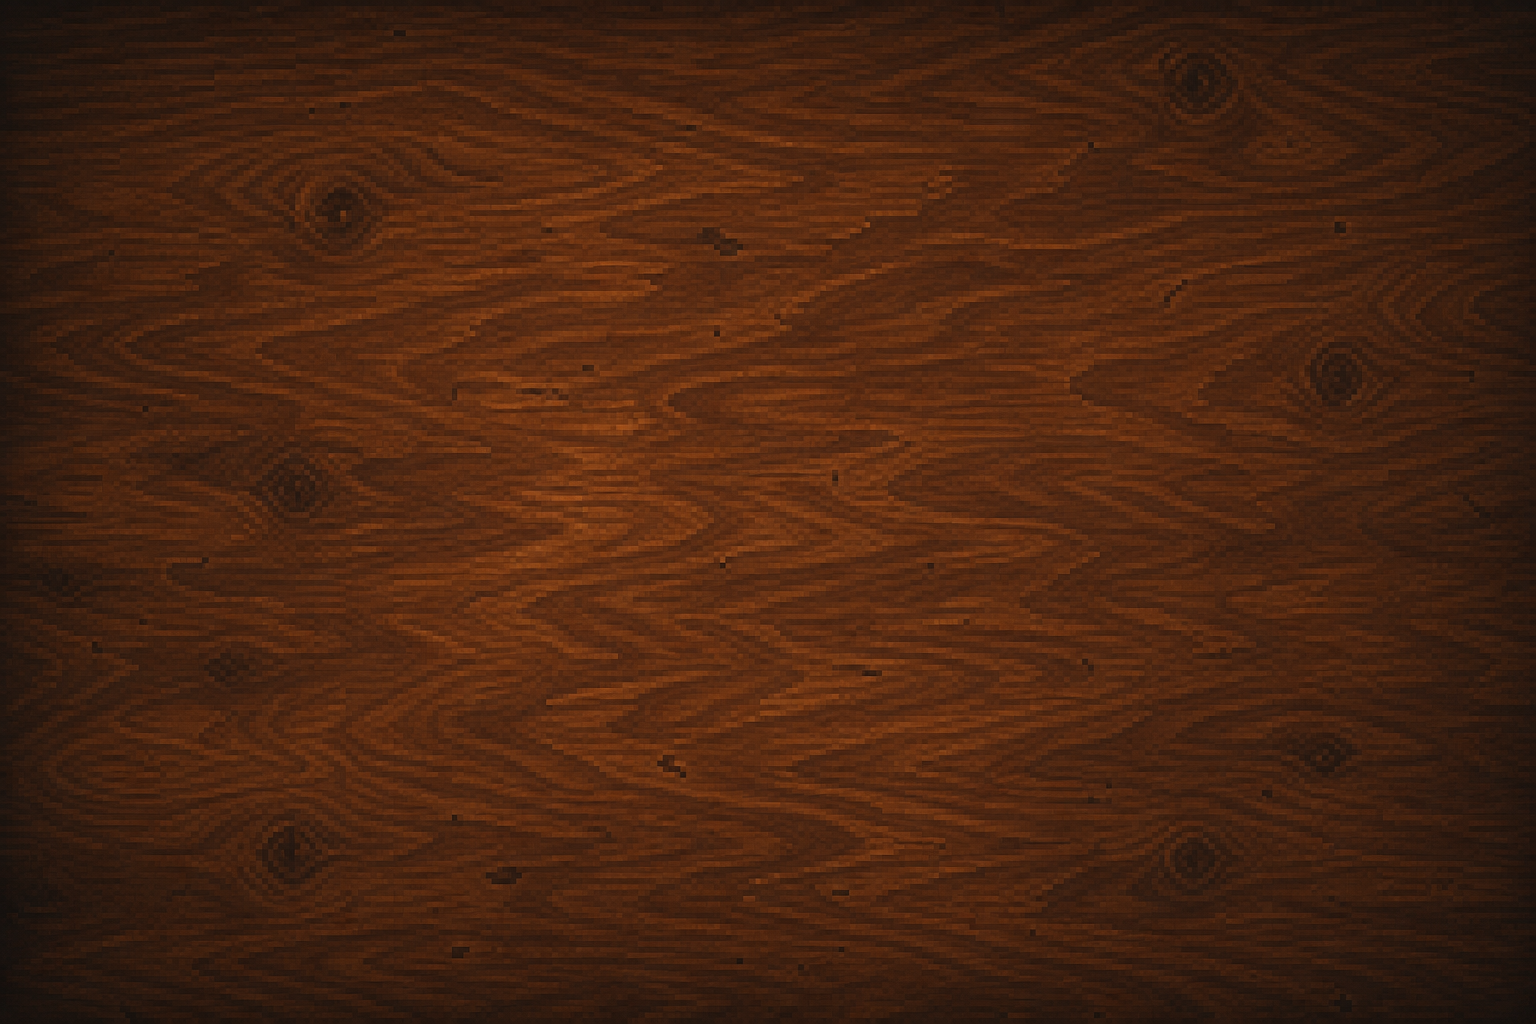
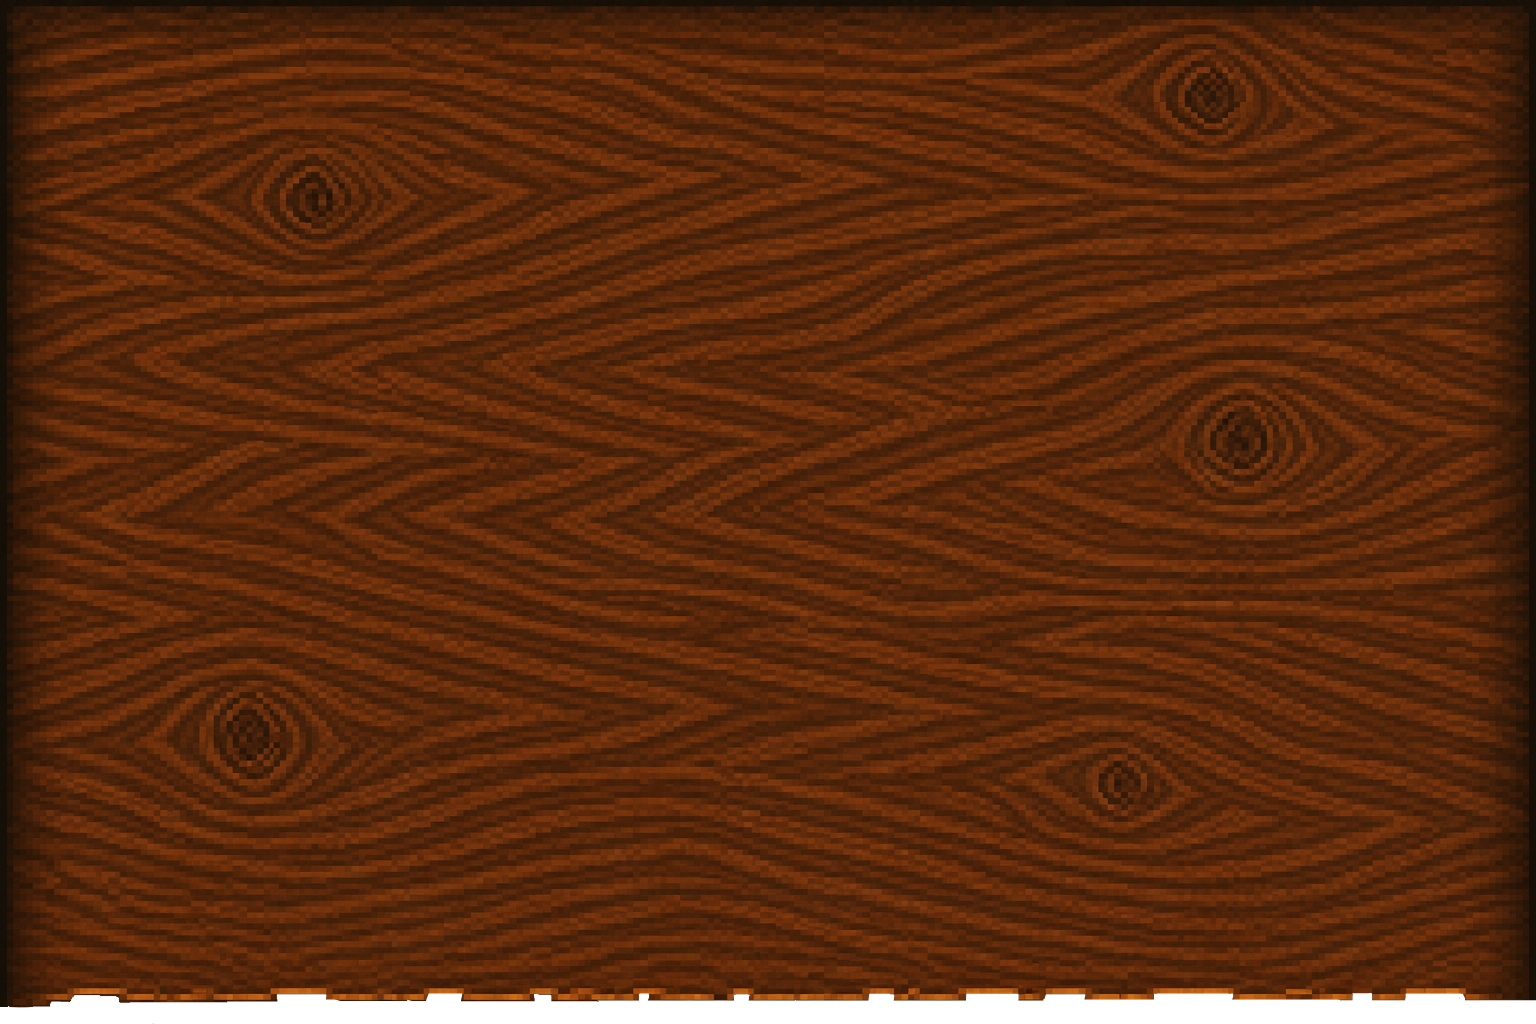
feat: 更新桌子资产

diff --git a/apps/web/src/styles/turntable-desk.css b/apps/web/src/styles/turntable-desk.css
@@ -5,7 +5,7 @@
   display: grid;
   grid-template-rows: minmax(0, 1fr) auto;
   pointer-events: none;
-  transform: translateY(calc((var(--drawer-progress) * var(--drawer-open-travel) * -1) - var(--drawer-peek)));
+  transform: translateY(calc((var(--drawer-progress) * var(--drawer-open-travel) * -1) - var(--drawer-peek) + (var(--drawer-progress) * clamp(10px, 8vw, 30px))));
   transition: transform var(--drawer-duration) cubic-bezier(.22, 1, .36, 1);
   will-change: transform;
 }
@@ -22,20 +22,15 @@
   min-height: 100%;
   overflow: hidden;
   border-bottom: 0;
-  background:
-    linear-gradient(90deg, rgba(255, 255, 255, .03), transparent 18%, rgba(0, 0, 0, .12) 52%, transparent 80%),
-    url("../assets/images/room/bg-table.png") center / cover no-repeat,
-    #3c261a;
-  box-shadow: 0 30px 82px rgba(0, 0, 0, .46);
+  background: transparent;
 }
 
 .desktop-surface::before {
   content: "";
   position: absolute;
   inset: 0;
-  background:
-    radial-gradient(circle at 50% 42%, rgba(0, 0, 0, .18), transparent 34%),
-    linear-gradient(180deg, rgba(255, 240, 210, .08), transparent 24%, rgba(0, 0, 0, .18));
+  z-index: 0;
+  background: url("../assets/images/room/bg-table.png") center / cover no-repeat;
   pointer-events: none;
 }
 